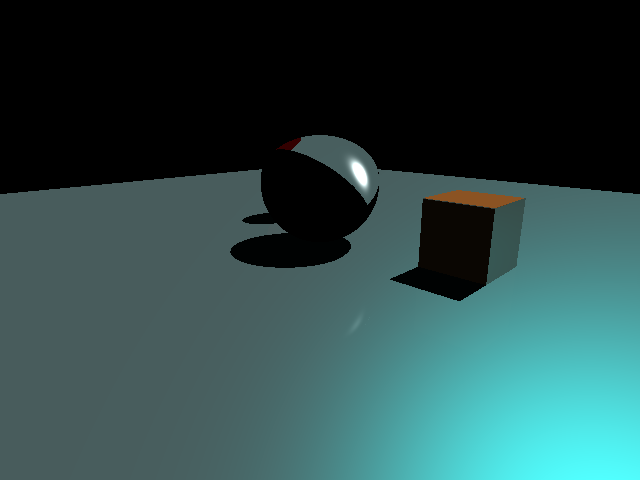
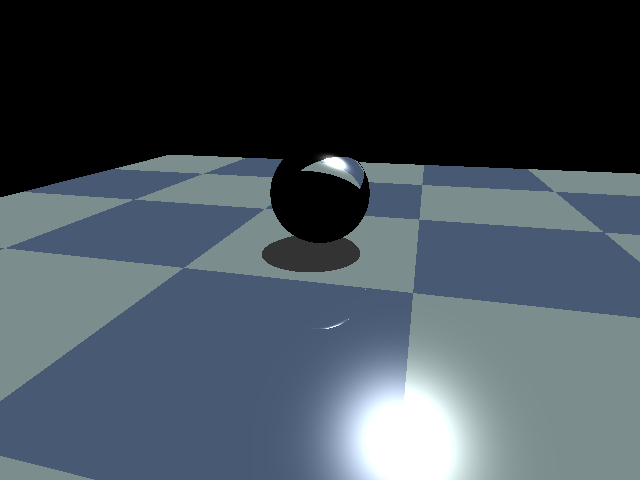
Did checkboard floor.

diff --git a/Projects/Finals/Main.cpp b/Projects/Finals/Main.cpp
@@ -604,7 +604,7 @@ int main()
     // std::cin >> filepath;
     // std::cout << std::endl << filepath << std::endl;
 
-    filepath = "scene2d.test";
+    filepath = "checkboard.test";
     scenefile.open(filepath, std::ios::in);
     if (scenefile)
     {
